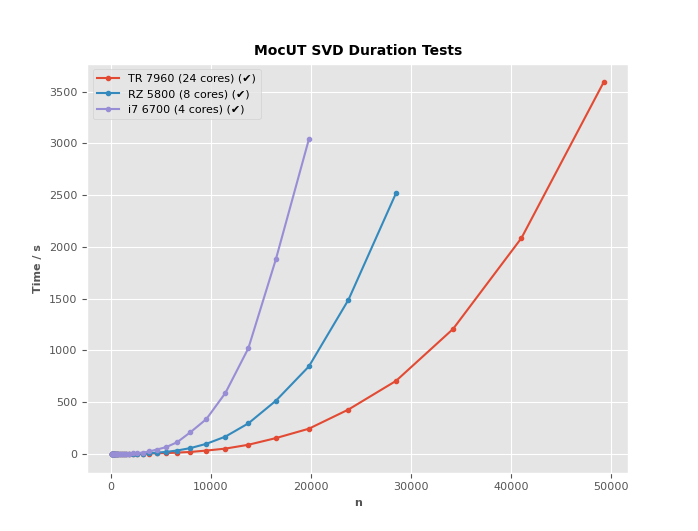
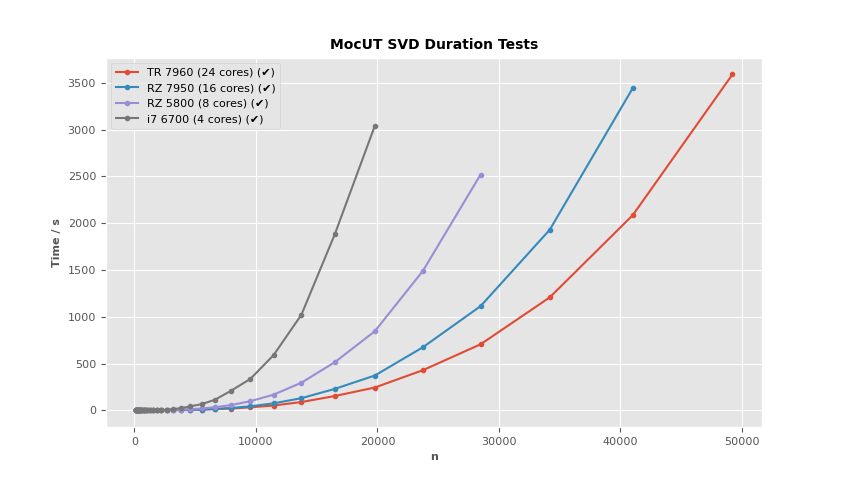
added a test platform

diff --git a/doc/mocutsvd.md b/doc/mocutsvd.md
@@ -390,6 +390,7 @@ Tested was the implementation in `mocutsvd.c` and  `mocutsvd.h`. The code was co
 
 Platforms with the following general purpose CPUs were used:
 * `TR 7960`: AMD Ryzen™ Threadripper™ 7960X, containing 24 cores
+* `RZ 7950`: AMD Ryzen™ 9 7950X, containing 16 cores
 * `RZ 5800`: AMD Ryzen™ 7 5800X, containing 8 cores
 * `i7 6700`: Intel® Core™ i7-6700, containing 4 cores
 
@@ -397,7 +398,7 @@ The chart below shows the absolution computation time across different values of
 
 ![](image/duration_tests.png)
 
-**Figure 8:** Absolute processing time in seconds for a full decomposition of a ($n$ x  $n$) matrix: $M \rightarrow U^\ast, \Sigma, V^\ast$. The charts represent 3 different CPUs.
+**Figure 8:** Absolute processing time in seconds for a full decomposition of a ($n$ x  $n$) matrix: $M \rightarrow U^\ast, \Sigma, V^\ast$.
 
 ## Conclusion and Outlook
 

diff --git a/README.md b/README.md
@@ -358,10 +358,11 @@ To analyze code with `valgrind`, do not use these compiler flags.
 
 ![](doc/image/duration_tests.png)
 
-Absolute processing time in seconds for a full decomposition of a ($n$ x  $n$) matrix: $M \rightarrow U^\ast, \Sigma, V^\ast$. The charts represent 3 different CPUs.
+Absolute processing time in seconds for a full decomposition of a ( $n$ x $n$ ) matrix: $M \rightarrow U^\ast, \Sigma, V^\ast$.
 
 The following CPUs were used:
 * `TR 7960`: AMD Ryzen™ Threadripper™ 7960X, containing 24 cores
+* `RZ 7950`: AMD Ryzen™ 9 7950X, containing 16 cores
 * `RZ 5800`: AMD Ryzen™ 7 5800X, containing 8 cores
 * `i7 6700`: Intel® Core™ i7-6700, containing 4 cores
 
